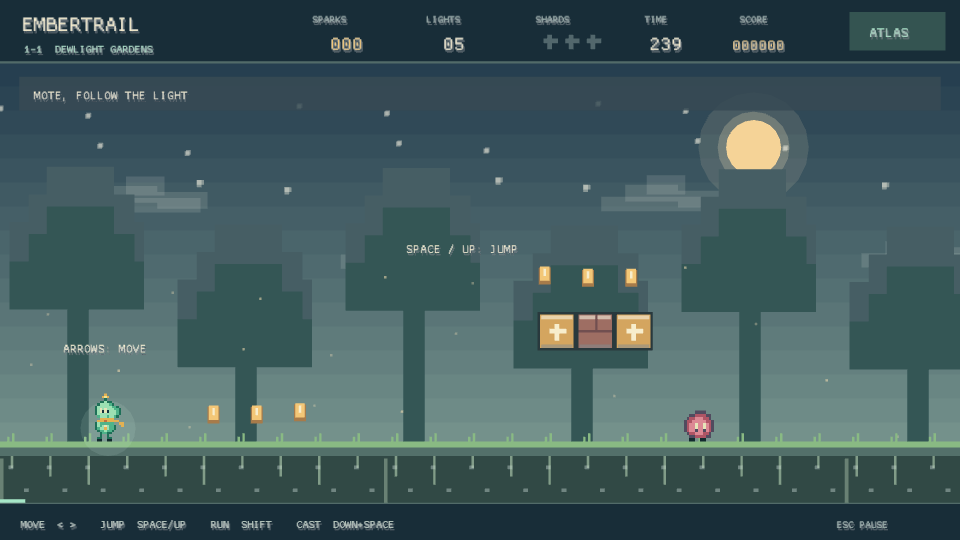
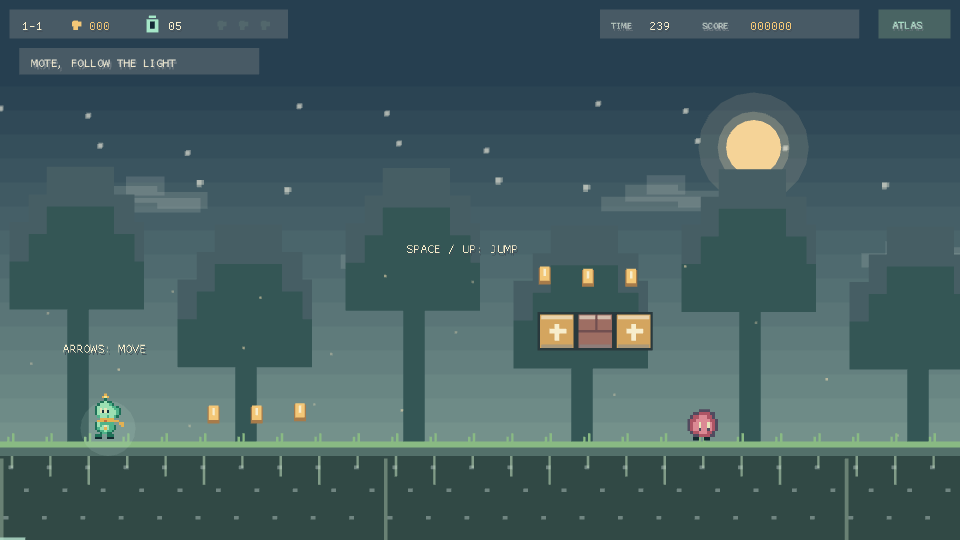
Publish Embertrail 0.1.1 compact HUD installer and screenshot

diff --git a/site/released_games.py b/site/released_games.py
@@ -29,18 +29,21 @@ def load(repo_root):
         if not re.fullmatch(r'[a-z0-9]+(?:-[a-z0-9]+)*', slug) or slug in seen:
             raise ValueError('Unsafe or duplicate independently released game slug')
         seen.add(slug)
-        release = game['published_release']
-        if release.get('draft') or release.get('prerelease') or not release.get('published_at'):
-            raise ValueError(f'{slug} needs a published release')
-        asset, _, size = download_for(release, slug)
-        if not re.fullmatch(r'https://github\.com/[\w.-]+/[\w.-]+/releases/download/[^/]+/'
-                            + re.escape(slug) + r'-setup-windows-x64\.exe', asset):
-            raise ValueError(f'{slug} needs a pinned Windows installer URL')
-        if '/latest/' in asset or asset.split('/')[-2] != release['tag_name'] or size <= 0:
-            raise ValueError(f'{slug} needs an immutable release and installer size')
-        metadata = next(a for a in release['assets'] if a['browser_download_url'] == asset)
-        if not re.fullmatch(r'sha256:[0-9a-f]{64}', metadata.get('digest', '')):
-            raise ValueError(f'{slug} needs a SHA256-pinned installer')
+        tags = set()
+        for release in [game['published_release'], *game.get('previous_releases', [])]:
+            if release.get('draft') or release.get('prerelease') or not release.get('published_at'):
+                raise ValueError(f'{slug} needs a published release')
+            asset, _, size = download_for(release, slug)
+            if not re.fullmatch(r'https://github\.com/[\w.-]+/[\w.-]+/releases/download/[^/]+/'
+                                + re.escape(slug) + r'-setup-windows-x64\.exe', asset):
+                raise ValueError(f'{slug} needs a pinned Windows installer URL')
+            tag = release['tag_name']
+            if '/latest/' in asset or asset.split('/')[-2] != tag or size <= 0 or tag in tags:
+                raise ValueError(f'{slug} needs an immutable release and installer size')
+            tags.add(tag)
+            metadata = next(a for a in release['assets'] if a['browser_download_url'] == asset)
+            if not re.fullmatch(r'sha256:[0-9a-f]{64}', metadata.get('digest', '')):
+                raise ValueError(f'{slug} needs a SHA256-pinned installer')
         if game.get('presentation') not in ('2d', '3d', 'hybrid') or game.get('networking') not in ('offline', 'native-multiplayer'):
             raise ValueError(f'{slug} needs presentation and networking metadata')
         if not re.fullmatch(r'https://github\.com/[\w.-]+/[\w.-]+/tree/[0-9a-f]{40}/.+', game['source_url']):
@@ -50,15 +53,16 @@ def load(repo_root):
 
 def verify(root):
     for game in load(root):
-        asset = next(a for a in game['published_release']['assets']
-                     if a['name'] == game['slug'] + '-setup-windows-x64.exe')
-        with urllib.request.urlopen(asset['browser_download_url'], timeout=60) as response:
-            data = response.read()
-        if not data.startswith(b'MZ') or len(data) != asset['size']:
-            raise ValueError(f"{game['slug']}: installer bytes or size differ from the release")
-        if 'sha256:' + hashlib.sha256(data).hexdigest() != asset['digest']:
-            raise ValueError(f"{game['slug']}: published installer SHA256 differs from the catalog")
-        print(f"Verified {game['slug']} Windows installer ({len(data)} bytes).")
+        for release in [game['published_release'], *game.get('previous_releases', [])]:
+            asset = next(a for a in release['assets']
+                         if a['name'] == game['slug'] + '-setup-windows-x64.exe')
+            with urllib.request.urlopen(asset['browser_download_url'], timeout=60) as response:
+                data = response.read()
+            if not data.startswith(b'MZ') or len(data) != asset['size']:
+                raise ValueError(f"{game['slug']}: installer bytes or size differ from the release")
+            if 'sha256:' + hashlib.sha256(data).hexdigest() != asset['digest']:
+                raise ValueError(f"{game['slug']}: published installer SHA256 differs from the catalog")
+            print(f"Verified {game['slug']} {release['tag_name']} Windows installer ({len(data)} bytes).")
 
 
 if __name__ == '__main__':

diff --git a/site/test_build.py b/site/test_build.py
@@ -60,6 +60,10 @@ class Downloads(unittest.TestCase):
             for slug in ('bundled', 'standalone'):
                 (root / f'thumbs/{slug}.png').write_bytes(screenshot())
             game = independent_game()
+            previous = copy.deepcopy(game['published_release'])
+            previous['tag_name'] = 'v0.0.9'
+            previous['assets'][0]['browser_download_url'] = previous['assets'][0]['browser_download_url'].replace('/v0.1.0/', '/v0.0.9/')
+            game['previous_releases'] = [previous]
             (root / 'site/released-games.json').write_text(json.dumps({'version': 1, 'games': [game]}))
             with (root / 'catalog.tsv').open('w', newline='') as out:
                 writer = csv.DictWriter(out, fieldnames=['slug', 'name', 'release'], delimiter='\t')
@@ -80,6 +84,9 @@ class Downloads(unittest.TestCase):
             self.assertIn(game['install_help'], page)
             self.assertIn('a' * 64, page)
             self.assertIn('<code>v0.1.0</code>', page)
+            self.assertIn('<code>v0.0.9</code>', page)
+            self.assertIn(previous['assets'][0]['browser_download_url'], page)
+            self.assertEqual(page.count('Latest</span>'), 1)
             self.assertIn('Latest</span>', page)
             self.assertNotIn('Check for updates', page)
             self.assertEqual((root / 'out/thumbs/standalone.png').read_bytes(), screenshot())

diff --git a/site/build.py b/site/build.py
@@ -268,7 +268,8 @@ def build_staged(args) -> None:
             "name": row["name"],
         })
 
-        versions = [game_release] + [r for r in releases if r.get("tag_name") != game_release.get("tag_name")]
+        history = row.get('previous_releases', releases)
+        versions = [game_release] + [r for r in history if r.get("tag_name") != game_release.get("tag_name")]
         game_out = out / "games" / slug
         game_out.mkdir(parents=True, exist_ok=True)
         preview = ""

diff --git a/DISTRIBUTION.md b/DISTRIBUTION.md
@@ -66,6 +66,8 @@ Add a visually reviewed landscape capture at `site/thumbs/<slug>.png`.
 `python site/released_games.py` verifies the downloaded Windows installer before
 every Pages deployment. These entries use the normal cards, filters, and game
 pages without rebuilding the installer or changing the bundled release catalog.
+Keep older pinned release records in `previous_releases` when publishing an
+update so the game's Versions table retains its earlier installers.
 
 To package older builds without recompiling them, dispatch **Build Windows releases**
 with `backfill_limit` set to the number of recent releases to convert. ZIP bytes

diff --git a/site/thumbs/README.md b/site/thumbs/README.md
@@ -32,5 +32,5 @@ its gameplay verification capture; Slapstick uses a captured goal during a solo
 match. The existing captures for the other games were visually reviewed.
 
 Embertrail uses the visually reviewed native Windows package capture from its
-verified 0.1.0 release. Independently released games in `site/released-games.json`
+verified 0.1.1 compact HUD release. Independently released games in `site/released-games.json`
 also require a real landscape screenshot here.
